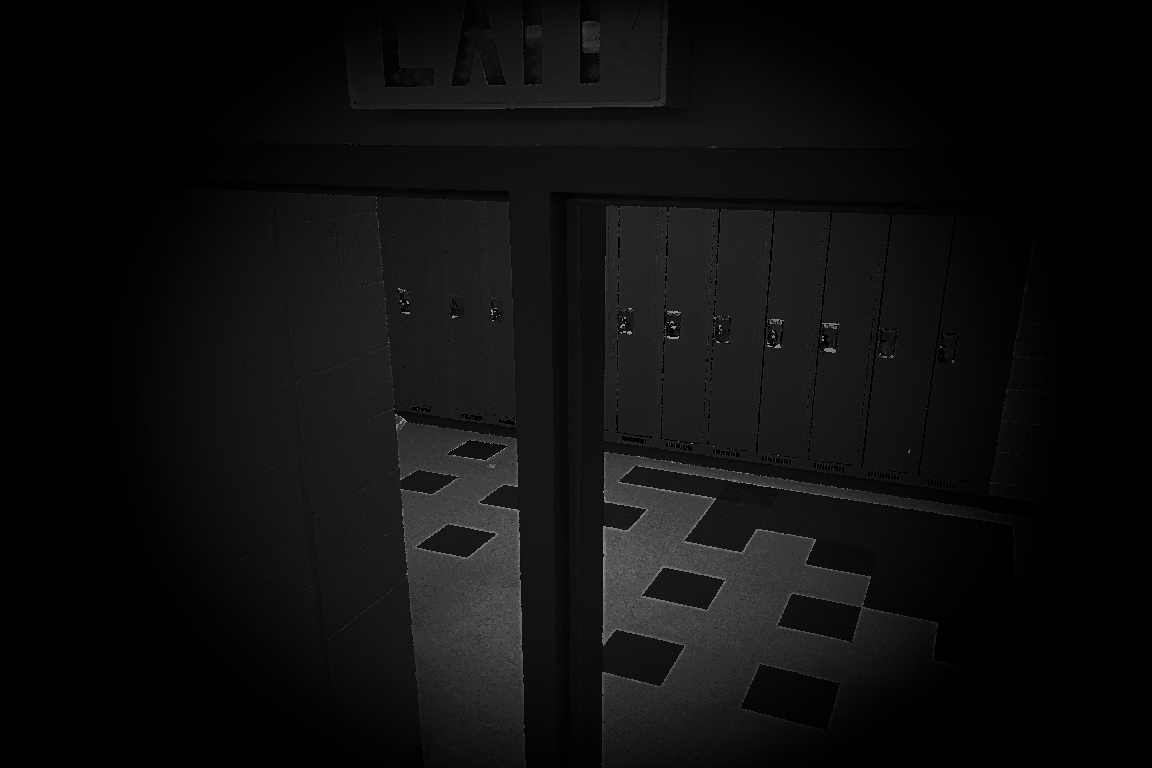
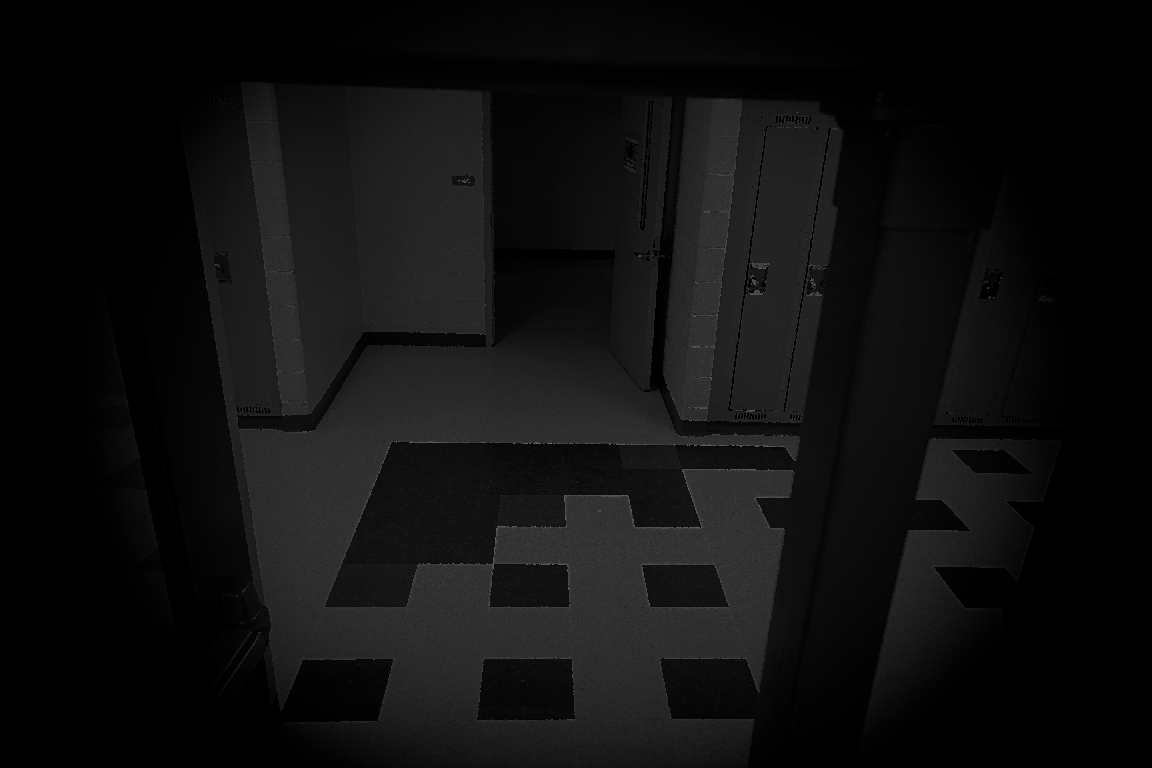
static images

diff --git a/GameRoom.java b/GameRoom.java
@@ -30,7 +30,9 @@ public class GameRoom extends SuperWorld {
     private int CMYOffset = 622;
     
 
-    private int[] camX = {CMXOffset - 95,CMXOffset - 41, CMXOffset - 63, CMXOffset + 94, CMXOffset + 23, CMXOffset + 62, CMXOffset + 5};
+    private int camsOffset = 120;
+    
+    private int[] camX = {CMXOffset - 95 + camsOffset,CMXOffset - 41 + camsOffset, CMXOffset - 63 + camsOffset, CMXOffset + 144 + camsOffset, CMXOffset + 73 + camsOffset, CMXOffset + 62 + camsOffset, CMXOffset + 5 + camsOffset};
     private int[] camY = {CMYOffset + 54, CMYOffset + 24, CMYOffset - 10, CMYOffset + 40, CMYOffset + 20, CMYOffset - 11, CMYOffset + 66};
 
     Button[] cams = new Button[7];
@@ -43,11 +45,14 @@ public class GameRoom extends SuperWorld {
 
     private double maxWater, maxBattery, maxWood, maxFood;
     
-    private double hunger = 10.0;
-    private double water = 10.0;
+    private double hunger = 0.0;
+    private double water = 0.0;
     private double wood;
     private double battery;
 
+    private int waterCount;
+    private int foodCount;
+    
     private boolean openedCamMap = false;
     private boolean expanded = false;
 
@@ -55,8 +60,7 @@ public class GameRoom extends SuperWorld {
 
     private CameraMap camMap;
     private Tile tiles[][];
-    private Bar batteryBar;
-    private Bar soundBar;
+    private Bar batteryBar, soundBar, foodBar, waterBar;
     private EnemyManager em;
     private Presser leftButton, rightButton, foodButton, waterButton;
     private SoundManager sm;
@@ -123,25 +127,34 @@ public class GameRoom extends SuperWorld {
 
         GreenfootImage doorLeft = new GreenfootImage("buttons/doorButton1.png");
         GreenfootImage doorRight = new GreenfootImage("buttons/doorButton2.png");
-        GreenfootImage food = new GreenfootImage("buttons/foodButton.png");
-        GreenfootImage water = new GreenfootImage("buttons/waterButton.png");
+        GreenfootImage foodBut = new GreenfootImage("buttons/foodButton.png");
+        GreenfootImage waterBut = new GreenfootImage("buttons/waterButton.png");
         
         leftButton = new Presser(leftDoor, doorLeft);
         rightButton = new Presser(rightDoor, doorRight);
-        foodButton = new Presser(feed, food);
-        waterButton = new Presser(drink, water);
+        foodButton = new Presser(feed, foodBut);
+        waterButton = new Presser(drink, waterBut);
         addObject(foodButton, 461, 665);
         addObject(waterButton, 731, 665);
         
         addInventory();
         maxBattery = 1000;
         battery = maxBattery;
-
-        batteryBar = new Bar(maxBattery, "energyIcon.png", new Color(0, 255, 255));
+        
+        maxFood = 100;
+        hunger = maxFood;
+        maxWater = 100;
+        water = maxWater;
+        
+        batteryBar = new Bar(maxBattery, "energyIcon.png", new Color(191, 205, 50));
         addObject(batteryBar, 150, 100);
-
-        soundBar = new Bar(10, "energyIcon.png", new Color(0, 255, 0));
-        addObject(soundBar, 150, 200);
+        foodBar = new Bar(maxFood, "meatIcon.png", new Color(255, 0, 0));
+        addObject(foodBar, 150, 200);
+        waterBar = new Bar(maxWater, "waterIcon.png", new Color(0, 255, 255));
+        addObject(waterBar, 150, 300);
+        
+        soundBar = new Bar(10, "soundIcon.png", new Color(0, 255, 0));
+        addObject(soundBar, 150, 707);
 
         camButton = new Button("AAAAAAAAAAAAAAAAAAAAA", 20, true);
         addObject(camButton, 1129, 741);
@@ -169,7 +182,12 @@ public class GameRoom extends SuperWorld {
         time--;
         
 
-        if(time < 21000) { //spawn them after 30 seconds
+        if(time == 21000) { //spawn them after 30 seconds
+            System.out.println("ee");
+            em.getTyrone().setStage(1);
+            em.getDaniel().setStage(1);
+            
+        } else if(time < 21000) {
             em.moveEnemies();
         }
         
@@ -180,6 +198,10 @@ public class GameRoom extends SuperWorld {
         //System.out.println("time elapsed: " + timer.millisElapsed()/1000);
         //System.out.println("hunger meter: " + hM);
         if(time > 0 || isAlive){
+            if(time%120 == 0){
+                maxFood -=1;
+                maxWater -=1;
+            }
             if (Greenfoot.mousePressed(camButton)){
                 if(!inCameras){
                     generateCamMap();
@@ -199,10 +221,12 @@ public class GameRoom extends SuperWorld {
 
             if(inCameras){
                 if(time%60 == 0){
-                battery -=1;
+                    battery -=1;
                 }
                 for(int i = 0; i < cams.length; i++){
                     if(Greenfoot.mousePressed(cams[i])){
+                        System.out.println("h");
+                        
                         clearCams();
                         currCam = i+1;
                         checkCam(currCam, em.getTyroneLocation(), em.getDanielLocation());
@@ -223,14 +247,16 @@ public class GameRoom extends SuperWorld {
         if(time < 0 && isAlive) {
             //goToWorld(new winWorld());
         }
-        
-        addDoorButtons();
         if(time%6 == 0){
             batteryBar.refresh(battery);
+            foodBar.refresh(foodCount);
+            waterBar.refresh(waterCount);
             soundBar.refresh(Greenfoot.getMicLevel());
         }
+        addDoorButtons();
         
-
+        
+        
     }
 
     /**
@@ -272,7 +298,10 @@ public class GameRoom extends SuperWorld {
         }
     }
 
-    public void checkCam(int currCam, int tyroneLocation, int danielLocation) {
+    public void checkCam(int currCam, int tyroneLocation, int danielLocation){
+        System.out.println(currCam);
+        System.out.println(tyroneLocation);
+        System.out.println(danielLocation);
         if(currCam == tyroneLocation || currCam == danielLocation) {
             displayCam(currCam, true);
         } else {
@@ -333,16 +362,16 @@ public class GameRoom extends SuperWorld {
         for(Item i : itemChest){
             switch(i.toString()){
                 case "Battery":
-                    maxBattery += 10;
+                    maxBattery += 10.0;
                     break;
                 case "Wood":
-                    maxWood += 1;
+                    maxWood += 1.0;
                     break;
                 case "Water":
-                    maxWater += 10;
+                    waterCount++;
                     break;
                 case "Food":
-                    maxFood += 10;
+                    foodCount++;
                     break;
             }
             
@@ -435,16 +464,14 @@ public class GameRoom extends SuperWorld {
         }
     };
 
-
-        
-        
-    
-
     public Function feed = () -> {
         sm.playSound("eatingsound");
     };
 
     public Function drink = () -> {
         sm.playSound("drinkSound");
+        hunger = hunger+10 > maxFood ? maxFood: hunger+10;
+        foodCount--;
     };
+
 }

diff --git a/EnemyManager.java b/EnemyManager.java
@@ -19,8 +19,8 @@ public class EnemyManager extends Actor
     public EnemyManager() {
         //Enemies have different movement times 
         
-        daniel = new Enemy("daniel", 600, 600);
-        tyrone = new Enemy("tyrone", 600, 600);
+        daniel = new Enemy("daniel", 360, 360, 0);
+        tyrone = new Enemy("tyrone", 600, 600, 0);
         
         specialStageTimer = 1800;
         specialRunningTimer = 300;
@@ -76,27 +76,27 @@ public class EnemyManager extends Actor
     public void knockOnDoor(){
         if(daniel.getStage() == 3) {
             daniel.decreaseTimer(1);
-            if(daniel.getResetTimer() == 0 && ((GameRoom)getWorld()).getRightDoor()) {
+            if(daniel.getResetTimer() == 0 && !((GameRoom)getWorld()).getLeftDoor()) {
+                ((GameRoom)getWorld()).setAlive(false);
+                
+            }
+            else if(daniel.getResetTimer() == 0 && ((GameRoom)getWorld()).getLeftDoor()){
                 int specialSpawn = Greenfoot.getRandomNumber(10);
                 if(specialSpawn == 3) {
-                    daniel.setStage(7);
-                    specialRunningTimer = 300;
-                    specialStageTimer = 1800;
+                    //daniel.setStage(7);
                 }
                 else {
                     daniel.setStage(1);
                 }
             }
-            else {
-                ((GameRoom)getWorld()).setAlive(false);
-            }
         }    
+        
         if(tyrone.getStage() == 3) {
             tyrone.decreaseTimer(1);
-            if(tyrone.getResetTimer() == 0 && ((GameRoom)getWorld()).getLeftDoor()) {
-                tyrone.setStage(4);
+            if(tyrone.getResetTimer() == 0 && ((GameRoom)getWorld()).getRightDoor()) {
+                tyrone.setStage(1);
             }
-            else {
+            else if (tyrone.getResetTimer() == 0 && !((GameRoom)getWorld()).getRightDoor()){
                 ((GameRoom)getWorld()).setAlive(false);
             }
         }  
@@ -106,9 +106,11 @@ public class EnemyManager extends Actor
         tyrone.moveLocation();
     }
     public int getDanielLocation(){
+        System.out.println(daniel.getStage());
         return daniel.getLocation(daniel.getStage());
     }
     public int getTyroneLocation(){
+        System.out.println(tyrone.getStage());
         return tyrone.getLocation(tyrone.getStage());
     }
     public Enemy getDaniel(){

diff --git a/Enemy.java b/Enemy.java
@@ -14,8 +14,8 @@ public class Enemy extends Entity
     private int tick;
     private int timeTillReset; 
     
-    public Enemy(String name, int maxTick, int resetTime){
-        System.out.println("here");
+    public Enemy(String name, int maxTick, int resetTime,int stage){
+        this.stage = stage;
         this.name = name;
         this.maxTick = maxTick;
         timeTillReset = resetTime; 
@@ -52,11 +52,13 @@ public class Enemy extends Entity
     }
     public void moveLocation(){
         tick--;
-        if(Greenfoot.getRandomNumber(2) == 1){
-            if(stage+1 > 3) {
-                if(stage + 1 == 3) tick = 240;
-                tick = maxTick;
-                setStage(stage+1);
+        if(tick <= 0) {
+            if(Greenfoot.getRandomNumber(2) == 1){
+                if(stage+1 <= 3) {
+                    if(stage + 1 == 3) tick = 360;
+                    tick = maxTick;
+                    setStage(stage+1);
+                }
             }
         }
     }
